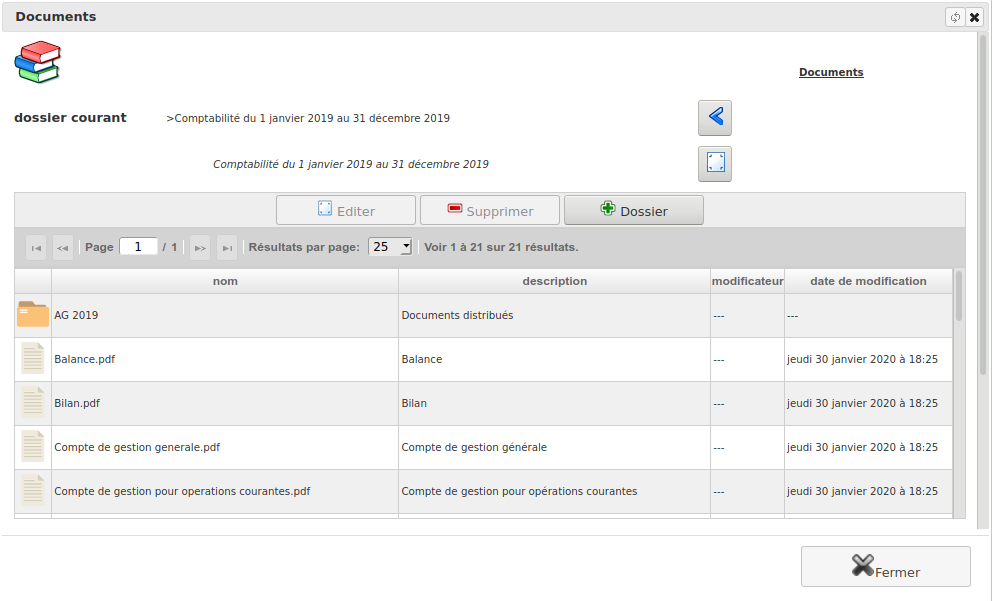
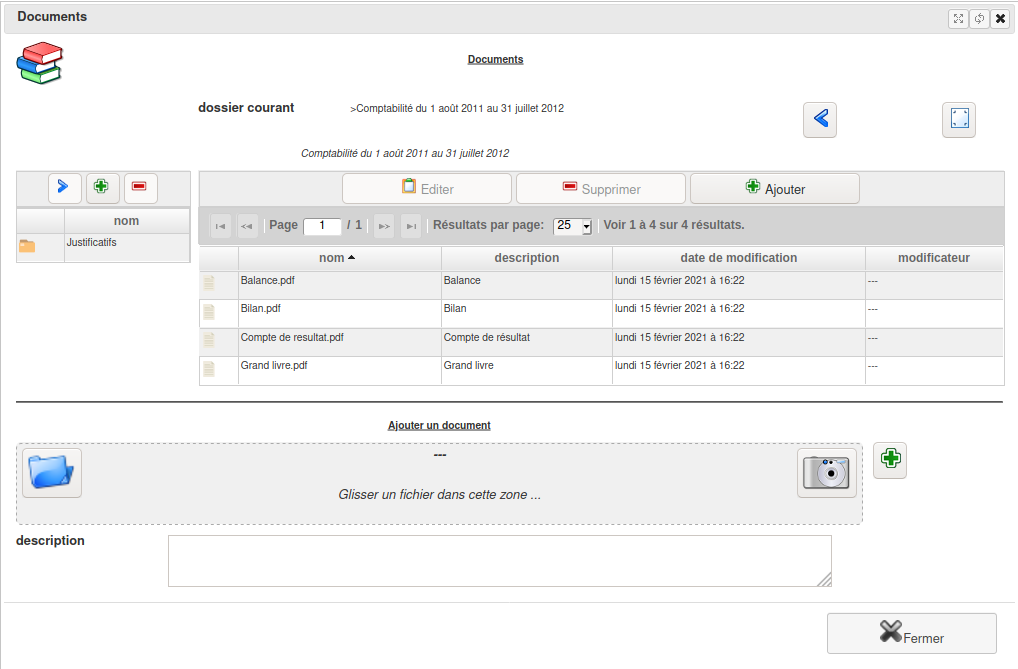
correct documents + manual

diff --git a/lucterios/documents/models.py b/lucterios/documents/models.py
@@ -31,6 +31,7 @@ from datetime import datetime
 from zipfile import BadZipFile
 
 from django.db import models
+from django.db.models.aggregates import Count
 from django.utils import timezone
 from django.utils.translation import ugettext_lazy as _
 
@@ -326,7 +327,7 @@ class DocumentContainer(AbstractContainer):
     def get_doc_editors(self, user=None, wantWrite=True):
         readonly = not wantWrite or (self.parent.is_readonly(user) if (user is not None) and (self.parent is not None) else False)
         for editor_class in DocEditor.get_all_editor():
-            editor_obj = editor_class(self.root_url, self, readonly, user.get_full_name() if user is not None else '???')
+            editor_obj = editor_class(self.root_url, self, readonly, user.get_full_name() if (user is not None) and hasattr(user, 'get_full_name') else '???')
             if editor_obj.is_manage():
                 return editor_obj
         return None
@@ -365,6 +366,31 @@ def migrate_containers(old_parent, new_parent):
     return nb_folder, nb_doc
 
 
+def merge_multicontainers():
+    nb_folder = 0
+    nb_doc = 0
+    for multi_data in FolderContainer.objects.values("name", "description", "parent").annotate(Count('id')).values("name", "description", "parent").order_by().filter(id__count__gt=1):
+        multi_folders = FolderContainer.objects.filter(**multi_data).order_by('id')
+        if len(multi_folders) > 1:
+            try:
+                first_folder = multi_folders.first()
+                first_folder.get_final_child().merge_objects(list(multi_folders)[1:])
+                nb_folder += 1
+            except Exception as err:
+                print('merge_multicontainers Folder error', multi_folders, '->', err)
+    for multi_data in DocumentContainer.objects.values("name", "description", "parent", "date_modification", "modifier").annotate(Count('id')).values("name", "description", "parent", "date_modification", "modifier").order_by().filter(id__count__gt=1):
+        multi_documents = DocumentContainer.objects.filter(**multi_data).order_by('id')
+        if len(multi_documents) > 1:
+            try:
+                first_document = multi_documents.first()
+                first_document.get_final_child().merge_objects(list(multi_documents)[1:])
+                nb_doc += 1
+            except Exception as err:
+                print('merge_multicontainers Document error', multi_documents, '->', err)
+    if (nb_doc > 0) or (nb_folder > 0):
+        print('Merge multi-containers: folder=%d - documents=%d' % (nb_folder, nb_doc))
+
+
 class DefaultDocumentsPrintPlugin(PrintFieldsPlugIn):
 
     name = "DEFAULT_DOCUMENTS"
@@ -398,6 +424,7 @@ PrintFieldsPlugIn.add_plugin(DefaultDocumentsPrintPlugin)
 @Signal.decorate('convertdata')
 def documents_convertdata():
     migrate_containers(None, None)
+    merge_multicontainers()
 
 
 @Signal.decorate('checkparam')

diff --git a/lucterios/documents/views.py b/lucterios/documents/views.py
@@ -77,6 +77,22 @@ class FolderAddModify(XferAddEditor):
     caption_add = _("Add folder")
     caption_modify = _("Modify folder")
 
+    def _search_model(self):
+        current_folder = self.getparam('current_folder', 0)
+        if current_folder != 0:
+            self.params['parent'] = current_folder
+        XferAddEditor._search_model(self)
+
+    def fillresponse(self):
+        XferAddEditor.fillresponse(self)
+        parentid = self.getparam('parent', 0)
+        if (self.item.id is None) and (parentid != 0):
+            parent = FolderContainer.objects.get(id=parentid)
+            viewer = self.get_components('viewer')
+            viewer.set_value([group.id for group in parent.viewer.all()])
+            modifier = self.get_components('modifier')
+            modifier.set_value([group.id for group in parent.modifier.all()])
+
 
 @ActionsManage.affect_grid(TITLE_DELETE, "images/delete.png", unique=SELECT_MULTI)
 @MenuManage.describ('documents.delete_folder')
@@ -484,10 +500,11 @@ class DocumentSearch(XferSavedCriteriaSearchEditor):
 
     def fillresponse(self):
         XferSearchEditor.fillresponse(self)
+        grid = self.get_components(self.field_id)
+        grid.actions = []
+        grid.add_action(self.request, DocumentShow.get_action(TITLE_EDIT, "images/show.png"), close=CLOSE_NO, unique=SELECT_SINGLE)
         if self.select_class is not None:
-            grid = self.get_components(self.field_id)
-            grid.add_action(self.request, self.select_class.get_action(_("Select"), "images/ok.png"),
-                            close=CLOSE_YES, unique=self.mode_select, pos_act=0)
+            grid.add_action(self.request, self.select_class.get_action(_("Select"), "images/ok.png"), close=CLOSE_YES, unique=self.mode_select, pos_act=0)
 
 
 @ActionsManage.affect_show(_('delete shared link'), "images/permissions.png", condition=lambda xfer: xfer.item.sharekey is not None)

diff --git a/lucterios/documents/doc_editors.py b/lucterios/documents/doc_editors.py
@@ -307,11 +307,12 @@ class OnlyOfficeEditor(DocEditor):
             'url': self.doc_url,
             'info': {'folder': self.doccontainer.parent.name if self.doccontainer.parent is not None else ""}
         }
+        lang = settings.LANGUAGE_CODE
         option['editorConfig'] = {
             "callbackUrl": "" if self.readonly else "%s/lucterios.documents/uploadFile?%s" % (self.root_url, self.url_params),
-            'lang': 'en',
+            'lang': lang,
             'mode': 'show' if self.readonly else 'edit',
-            'region': 'en-EN',
+            'region': '%s-%s' % (lang, lang.upper()),
             "customization": {
                 'autosave': False,
                 'chat': False,

diff --git a/lucterios/documents/docs/fr/editor.rst b/lucterios/documents/docs/fr/editor.rst
@@ -10,17 +10,19 @@ Des outils d'édition, libres et gratuits, sont actuellement configurables afin 
 Etherpad
 --------
 
-Editeur pour document textuel.
+Éditeur pour document textuel.
 
 Site Web
+
 	https://etherpad.org/
 
 Installation
-	Le tutoriel de framasoft explique bien comment l'installer
-	https://framacloud.org/fr/cultiver-son-jardin/etherpad.html
+
+	Le tutoriel de framasoft explique bien comment l'installer: https://framacloud.org/fr/cultiver-son-jardin/etherpad.html
 	
 Configurer
-	Editer le fichier "settings.py" contenu dans le répertoire de votre instance.
+
+	Éditer le fichier "settings.py" contenu dans le répertoire de votre instance.
 	Ajouter et adapter la ligne ci-dessous:
 	 - url : adresse d'accès d'Etherpad
 	 - apikey : contenu de la clef de sécurité (fichier APIKEY.txt contenu dans l'installation d'etherpad) 
@@ -31,9 +33,10 @@ Configurer
 	ETHERPAD = {'url': 'http://localhost:9001', 'apikey': 'jfks5dsdS65lfGHsdSDQ4fsdDG4lklsdq6Gfs4Gsdfos8fs'}
 	
 Usage
-	Dans le gestionnaire de documents, vous avez plusieurs actions qui apparaissent alors
-	 - Un bouton "+ Fichier" vous permettant de créer un document txt ou html
-	 - Un bouton "Editeur" pour ouvrir l'éditeur Etherpad.
+
+	Dans le gestionnaire de documents, vous avez plusieurs actions qui apparaissent alors:
+	 - Un bouton "+ Fichier" vous permettant de créer un document txt ou html depuis la liste d'un dossier.
+	 - Un bouton "Editeur" pour ouvrir l'éditeur Etherpad depuis la fiche du document.
 	 
 .. image:: etherpad.png	  
 
@@ -41,15 +44,18 @@ Usage
 Ethercalc
 ---------
 
-Editeur pour tableau de calcul.
+Éditeur pour tableau de calcul.
 
 Site Web
+
 	https://ethercalc.net/
 
 Installation
+
 	Sur le site de l'éditeur, une petit explication indique comment l'installer.
 	
 Configurer
+
 	Editer le fichier "settings.py" contenu dans le répertoire de votre instance.
 	Ajouter et adapter la ligne ci-dessous:
 	 - url : adresse d'accès d'Ethercal
@@ -60,8 +66,43 @@ Configurer
 	ETHERCALC = {'url': 'http://localhost:8000'}
 	
 Usage
-	Dans le gestionnaire de documents, vous avez plusieurs actions qui apparaissent alors
-	 - Un bouton "+ Fichier" vous permettant de créer un document csv, ods ou xmlx
-	 - Un bouton "Editeur" pour ouvrir l'éditeur Ethercalc.
+
+	Dans le gestionnaire de documents, vous avez plusieurs actions qui apparaissent alors:
+	 - Un bouton "+ Fichier" vous permettant de créer un document csv, ods ou xmlx depuis la liste d'un dossier.
+	 - Un bouton "Editeur" pour ouvrir l'éditeur Ethercalc depuis la fiche du document.
 	 
 .. image:: ethercalc.png	  
+
+OnlyOffice Docs Community Edition
+---------------------------------
+
+Éditeurs en ligne pour les documents texte, les feuilles de calcul et les présentations.
+
+Site Web
+
+	https://www.onlyoffice.com/fr/office-suite.aspx
+
+Installation
+
+	Nous vous recommandons l'installation via Docker comme expliqué ici:
+	https://helpcenter.onlyoffice.com/installation/docs-community-install-docker.aspx
+	
+Configurer
+
+	Editer le fichier "settings.py" contenu dans le répertoire de votre instance.
+	Ajouter et adapter la ligne ci-dessous:
+	 - url : adresse d'accès d'OnlyOffice
+	 
+::
+	
+	# extra
+	ONLYOFFICE = {'url': 'http://localhost:8100'}
+	
+Usage
+
+	Dans le gestionnaire de documents, vous avez plusieurs actions qui apparaissent alors:
+	 - Un bouton "+ Fichier" vous permettant de créer un document csv, xlsx, ods, docx, odt, txt, pptx ou odp depuis la liste d'un dossier.
+	 - Un bouton "Editeur" pour ouvrir l'éditeur OnlyOffice depuis la fiche du document.
+	 - A noter que vous avez également la possibilité de visualiser, en lecture seule, les documents xls, doc, ppt ou pdf 
+	 
+.. image:: onlyoffice.png	  

diff --git a/lucterios/documents/docs/fr/shared_document.rst b/lucterios/documents/docs/fr/shared_document.rst
@@ -1,5 +1,5 @@
-Fichiers partagés
-=================
+Gestion de fichiers
+===================
 
 Liste des documents
 -------------------
@@ -9,18 +9,19 @@ Chaque dossier est assorti d'une description et d'informations relatives à la d
 
      Menu *Bureautique/Gestion de fichiers et de documents/Documents*
  
-.. image:: listfiles.png
-
-En utilisant le bouton "+ Dossier", il est possible de créer un nouveau dossier.
-Après l'avoir sélectionné, vous pouvez aussi en supprimer un et son contenu, à l'aide du bouton "-".
-Le bouton situé juste au dessus de "+ Dossier" permet, lui, d'éditer les propriétés du dossier actif et de les modifier, à la condition de disposer des droits pour cela.
-
-*Diacamma* mémorise l'utilisateur et la date de création de tout document ainsi que les informations relatives à la dernière modification. Affichez le contenu d'un dossier après l'avoir sélectionné et avoir cliqué sur le bouton "Editer" ou faites un double-clic sur la ligne correspondante au dossier.
+Le retour au dossier-parent est possible grâce au bouton '<'.
+Si vous disposez des droits, le bouton d'édition situé à coté permet d'éditer les propriétés du dossier actif et de les modifier.
 
 .. image:: listdoc.png
 
-Le retour au dossier-parent est possible grâce au bouton "<"
-Suivant vos permissions, vous pouvez ajouter un document dans un dossier.
+Suivant vos permissions, la zone de gauche vous permet de gérer vos dossiers.
+En utilisant le bouton '+', il est possible de créer un nouveau dossier.
+Après l'avoir sélectionné, vous pouvez aussi en supprimer un et son contenu, à l'aide du bouton '-'.
+Affichez le contenu d'un dossier après l'avoir sélectionné et avoir cliqué sur le bouton '>' ou faites un double-clic sur la ligne correspondante au dossier.
+
+Depuis la zone centrale, vous pouvez visualiser les documents contenus dans le dossier courant.
+Suivant vos permissions, vous pouvez ajouter ou supprimer un document.
+*Diacamma* mémorise l'utilisateur et la date de création de tout document ainsi que les informations relatives à la dernière modification.
 
 Affichez la fiche d'un document à l'aide d'un double-clic sur son nom.
 
